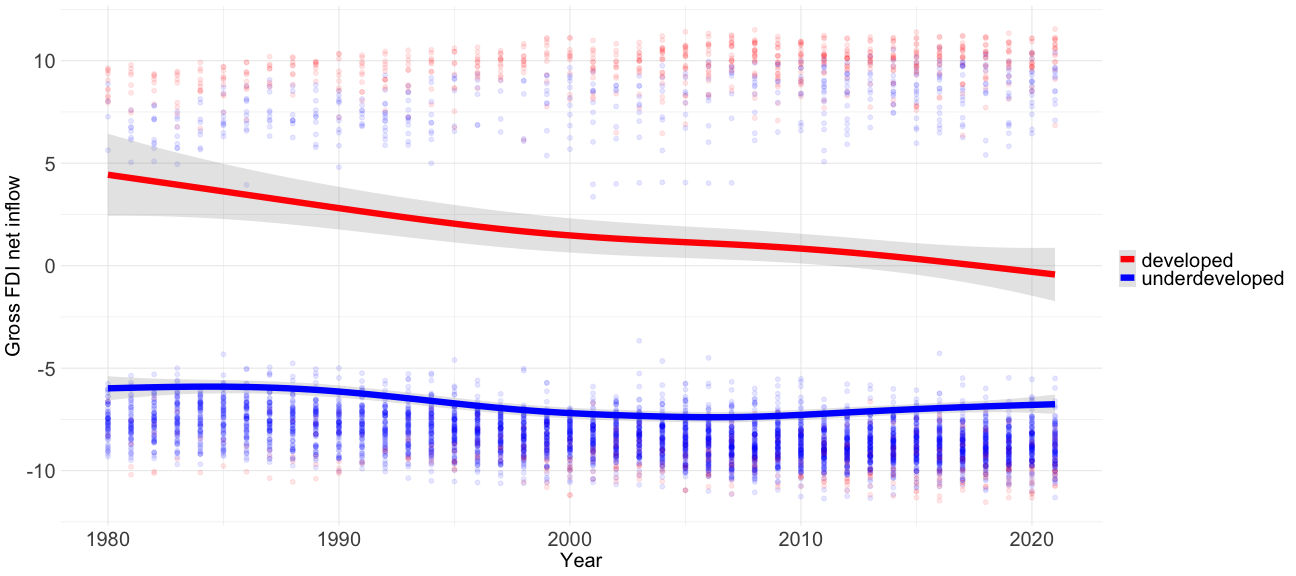
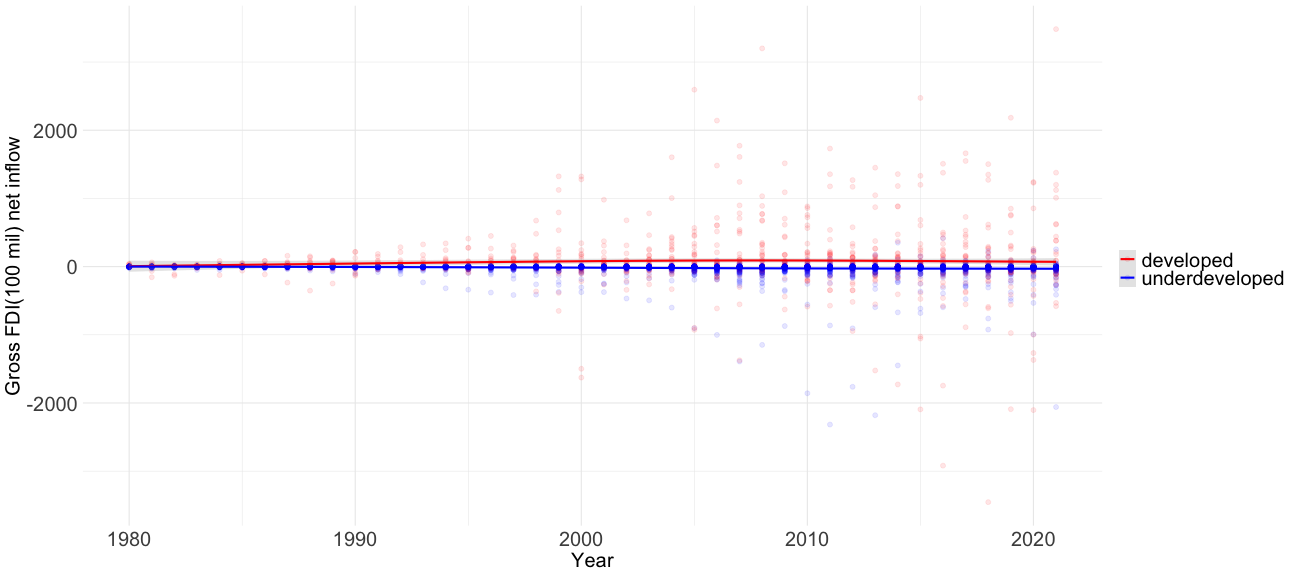
update

diff --git a/GLOA610-investment.html b/GLOA610-investment.html
@@ -120,7 +120,7 @@ background-size: 100%
 ---
 
 
-# FDI .green[net] inflow, USD, logged scale
+# FDI .green[net] inflow, USD, in 100 million USD
 
 .center[
 
